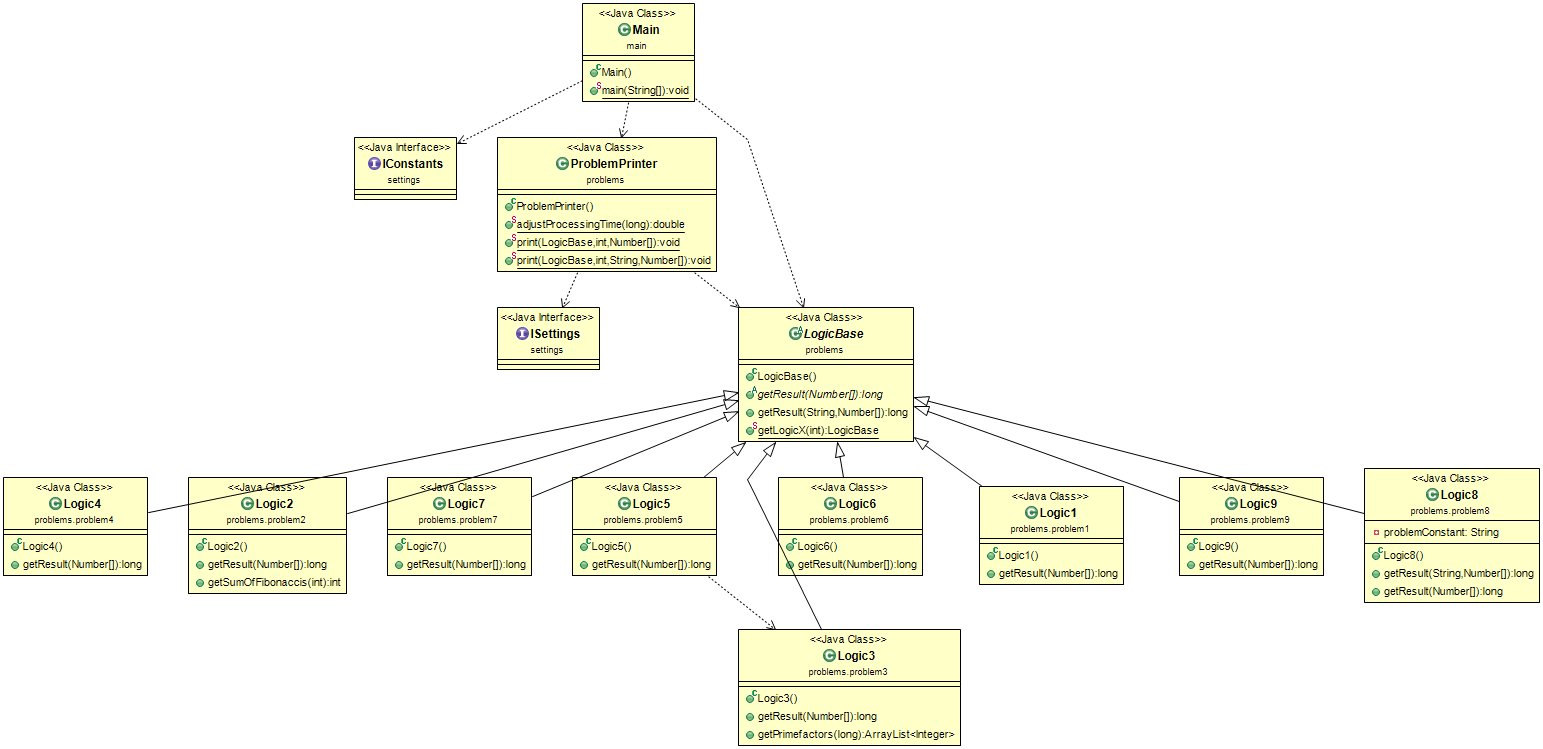
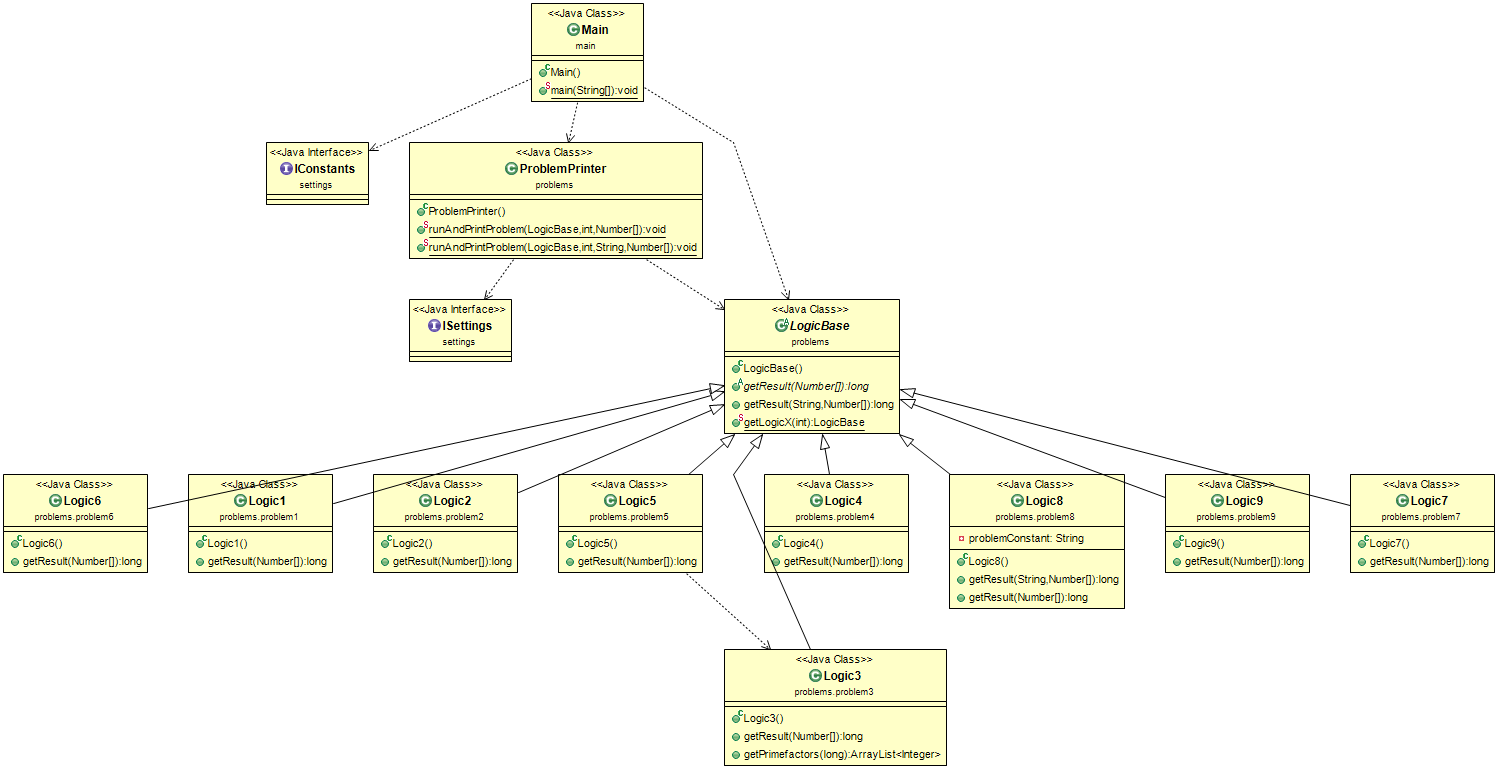
#add JavaDocs #mod refactoring

Changed region(s): [[0.0, 0.0, 1.0, 0.8291], [0.4606, 0.8291, 0.6449, 1.0]]

diff --git a/ProjectEuler/src/main/java/main/Main.java b/ProjectEuler/src/main/java/main/Main.java
@@ -9,20 +9,26 @@ import settings.IConstants;
 public class Main {
   // private static final Logger logConsole = Logger.getLogger("console");
   private static final Logger mdLogfile = Logger.getLogger("file");
-  public static final int UNUSED  = 0;
+
+  /**
+   * This is the projects entry point.
+   * 
+   * @param args
+   *          Startup arguments.
+   */
 
   public static void main(String[] args) {
 
     printMdLogfileHeader();
-    ProblemPrinter.print(LogicBase.getLogicX(1), 1, 0,IConstants.PROBLEM1_LIMIT, IConstants.PROBLEM1_MULTIPLE_OF_X, IConstants.PROBLEM1_MULTIPLE_OF_Y);
-    ProblemPrinter.print(LogicBase.getLogicX(2), 2, IConstants.PROBLEM2_LIMIT);
-    ProblemPrinter.print(LogicBase.getLogicX(3), 3, IConstants.PROBLEM3_NUMBER);
-    ProblemPrinter.print(LogicBase.getLogicX(4), 4, IConstants.PROBLEM4_LIMIT);
-    ProblemPrinter.print(LogicBase.getLogicX(5), 5, IConstants.PROBLEM5_DIVISOR_START, IConstants.PROBLEM5_DIVISOR_END);
-    ProblemPrinter.print(LogicBase.getLogicX(6), 6, IConstants.PROBLEM6_LIMIT);
-    ProblemPrinter.print(LogicBase.getLogicX(7), 7, IConstants.PROBLEM7_INDEX);
-    ProblemPrinter.print(LogicBase.getLogicX(8), 8,IConstants.PROBLEM_8_NUMBER_STRING, IConstants.PROBLEM8_INTERVALL_SIZE);
-    ProblemPrinter.print(LogicBase.getLogicX(9), 9, IConstants.PROBLEM9_SUM);
+    ProblemPrinter.runAndPrintProblem(LogicBase.getLogicX(1), 1, 0, IConstants.PROBLEM1_LIMIT, IConstants.PROBLEM1_MULTIPLE_OF_X, IConstants.PROBLEM1_MULTIPLE_OF_Y);
+    ProblemPrinter.runAndPrintProblem(LogicBase.getLogicX(2), 2, IConstants.PROBLEM2_LIMIT);
+    ProblemPrinter.runAndPrintProblem(LogicBase.getLogicX(3), 3, IConstants.PROBLEM3_NUMBER);
+    ProblemPrinter.runAndPrintProblem(LogicBase.getLogicX(4), 4, IConstants.PROBLEM4_LIMIT);
+    ProblemPrinter.runAndPrintProblem(LogicBase.getLogicX(5), 5, IConstants.PROBLEM5_DIVISOR_START, IConstants.PROBLEM5_DIVISOR_END);
+    ProblemPrinter.runAndPrintProblem(LogicBase.getLogicX(6), 6, IConstants.PROBLEM6_LIMIT);
+    ProblemPrinter.runAndPrintProblem(LogicBase.getLogicX(7), 7, IConstants.PROBLEM7_INDEX);
+    ProblemPrinter.runAndPrintProblem(LogicBase.getLogicX(8), 8, IConstants.PROBLEM_8_NUMBER_STRING, IConstants.PROBLEM8_INTERVALL_SIZE);
+    ProblemPrinter.runAndPrintProblem(LogicBase.getLogicX(9), 9, IConstants.PROBLEM9_SUM);
   }
 
   private static void printMdLogfileHeader() {

diff --git a/ProjectEuler/src/main/java/problems/ProblemPrinter.java b/ProjectEuler/src/main/java/problems/ProblemPrinter.java
@@ -13,26 +13,38 @@ public final class ProblemPrinter {
   private static ArrayList<Long> getResultAndProcessingTime(LogicBase logic, String problemConstant, Number... numbers) {
     ArrayList<Long> results = new ArrayList<Long>();
     long start = System.nanoTime();
-      results.add(logic.getResult(problemConstant, numbers)); // the problems results is in results[0]      
+    results.add(logic.getResult(problemConstant, numbers)); // the problems results is in results[0]
     long end = System.nanoTime();
     results.add(end - start);
     return results;
   }
 
   private static double adjustProcessingTime(long processingTime) {
-    Double adjustedProcessingTime = Long.valueOf(processingTime).doubleValue() / 1000000000;
+    Double adjustedProcessingTime = Long.valueOf(processingTime).doubleValue() / ISettings.NANO_SECONDS_TO_SECONDS_FACTOR;
     return adjustedProcessingTime;
   }
 
-  public static void print(LogicBase logic, int problemNumber, Number... numbers) {
-    print(logic, problemNumber, null, numbers);
+  public static void runAndPrintProblem(LogicBase logic, int problemNumber, Number... numbers) {
+    runAndPrintProblem(logic, problemNumber, null, numbers);
   }
 
-  public static void print(LogicBase logic, int problemNumber, String problemConstant, Number... numbers) {
+  /**
+   * Runs the problem, collects the result and prints it out.
+   * 
+   * @param logic
+   *          Logic object with which to solve the problem.
+   * @param problemNumber
+   *          Number of the problem.
+   * @param problemConstant
+   *          Problem constant as String, null if there is none.
+   * @param numbers
+   *          Array of Number objects.
+   */
+  public static void runAndPrintProblem(LogicBase logic, int problemNumber, String problemConstant, Number... numbers) {
     ArrayList<Long> results = getResultAndProcessingTime(logic, problemConstant, numbers);
     StringBuilder problemResultString = new StringBuilder();
     problemResultString = problemResultString.append(results.get(0).toString());
-    while (problemResultString.length() < ISettings._PROBLEM_RESULT_STRING_LENGTH) {
+    while (problemResultString.length() < ISettings.PROBLEM_RESULT_STRING_LENGTH) {
       problemResultString.append(' ');
     }
 

diff --git a/ProjectEuler/src/main/java/problems/LogicBase.java b/ProjectEuler/src/main/java/problems/LogicBase.java
@@ -12,7 +12,16 @@ public abstract class LogicBase {
   }
 
   public abstract long getResult(Number... numbers);
-  
+
+  /**
+   * Fall-back method which is called if the logic instance has no implementation
+   * 
+   * @param stringConstant
+   *          Used if the problem needs a String parameter.
+   * @param numbers
+   *          Array of Parameters which are numbers.
+   * @return The result of the problem.
+   */
   public long getResult(String stringConstant, Number... numbers) {
     long result = 0;
     if (stringConstant == null) {
@@ -23,13 +32,20 @@ public abstract class LogicBase {
     return result;
   }
 
+  /**
+   * Method to create a specific logic object determined by it's number. The number is part of the of the class name.
+   * 
+   * @param logicNumber
+   *          Represents the number of the problem and the corresponding logic.
+   * @return The instance of the corresponding logic.
+   */
   public static LogicBase getLogicX(int logicNumber) {
     String logicClassName = "problems.problem" + logicNumber + ".Logic" + logicNumber;
     logConsole.debug(logicClassName);
     LogicBase logicObject = null;
     try {
-      Class<?> logicClass =  Class.forName(logicClassName);
-      Constructor<?> logicConstructor =  logicClass.getConstructor();
+      Class<?> logicClass = Class.forName(logicClassName);
+      Constructor<?> logicConstructor = logicClass.getConstructor();
       logicObject = (LogicBase) logicConstructor.newInstance();
     } catch (Exception e) {
       e.printStackTrace();

diff --git a/ProjectEuler/src/main/java/problems/problem6/Logic6.java b/ProjectEuler/src/main/java/problems/problem6/Logic6.java
@@ -2,8 +2,6 @@ package problems.problem6;
 
 import problems.LogicBase;
 
-
-
 //The sum of the squares of the first ten natural numbers is,
 //1^2 + 2^2 + ... + 10^2 = 385
 //The square of the sum of the first ten natural numbers is,
@@ -11,33 +9,31 @@ import problems.LogicBase;
 //Hence the difference between the sum of the squares of the first ten natural numbers and the square of the sum is 3025 − 385 = 2640.
 //Find the difference between the sum of the squares of the first one hundred natural numbers and the square of the sum.
 
-
 public class Logic6 extends LogicBase {
-  
+
   @Override
   public long getResult(Number... numbers) {
-   int limit = numbers[0].intValue();
+    int limit = numbers[0].intValue();
     int sumSquares = getSumSquares(limit);
     int squareSum = getSquareSum(limit);
     int difference = squareSum - sumSquares;
     return difference;
   }
-  
-  
-  private int getSumSquares(int limit){
+
+  private int getSumSquares(int limit) {
     int sumSquares = 0;
     for (int i = 1; i <= limit; i++) {
-      sumSquares = sumSquares+ i*i;
+      sumSquares = sumSquares + i * i;
     }
     return sumSquares;
   }
-  
-  private int getSquareSum(int limit){
-   int sum = 0;
-   for (int i = 0; i <= limit; i++) {
-    sum = sum + i;
-  }
-   int squareSum = sum  * sum;
-   return squareSum;
+
+  private int getSquareSum(int limit) {
+    int sum = 0;
+    for (int i = 0; i <= limit; i++) {
+      sum = sum + i;
+    }
+    int squareSum = sum * sum;
+    return squareSum;
   }
 }

diff --git a/ProjectEuler/src/main/java/problems/problem2/Logic2.java b/ProjectEuler/src/main/java/problems/problem2/Logic2.java
@@ -4,7 +4,6 @@ import java.util.ArrayList;
 
 import problems.LogicBase;
 
-
 //Each new term in the Fibonacci sequence is generated by adding the previous two terms. By starting with 1 and 2, the first 10 terms will be:
 //1, 2, 3, 5, 8, 13, 21, 34, 55, 89, ...
 //By considering the terms in the Fibonacci sequence whose values do not exceed four million, find the sum of the even-valued terms.
@@ -16,23 +15,22 @@ public class Logic2 extends LogicBase {
     return getSumOfFibonaccis(numbers[0].intValue());
   }
 
-  public int getSumOfFibonaccis(int limit){
+  private int getSumOfFibonaccis(int limit) {
     ArrayList<Integer> fibonaccis = new ArrayList<Integer>();
     fibonaccis.add(1);
     fibonaccis.add(2);
     int index = 2;
     int sumOfEvenNumbers = 2;
 
-    while(sumOfEvenNumbers < limit){
-      fibonaccis.add(fibonaccis.get(index-1) + fibonaccis.get(index-2));      
-      if (fibonaccis.get(index)%2 ==0)
-      sumOfEvenNumbers = sumOfEvenNumbers + fibonaccis.get(index);
+    while (sumOfEvenNumbers < limit) {
+      fibonaccis.add(fibonaccis.get(index - 1) + fibonaccis.get(index - 2));
+      if (fibonaccis.get(index) % 2 == 0) {
+        sumOfEvenNumbers = sumOfEvenNumbers + fibonaccis.get(index);
+      }
       index++;
     }
-    
+
     return sumOfEvenNumbers;
   }
-  
-  
-  
+
 }

diff --git a/ProjectEuler/src/main/java/problems/problem7/Logic7.java b/ProjectEuler/src/main/java/problems/problem7/Logic7.java
@@ -9,16 +9,14 @@ import problems.LogicBase;
 
 public class Logic7 extends LogicBase {
 
-  
-
   @Override
   public long getResult(Number... numbers) {
-    ArrayList<Integer> primes =  initPrimesArray();
+    ArrayList<Integer> primes = initPrimesArray();
     int result = getSpecificPrime(primes, numbers[0].intValue());
     return result;
   }
 
-  private int getSpecificPrime(ArrayList<Integer> primes, int index) { 
+  private int getSpecificPrime(ArrayList<Integer> primes, int index) {
     int number = 1;
     while (primes.size() < index) {
       number = number + 2;
@@ -31,12 +29,12 @@ public class Logic7 extends LogicBase {
   }
 
   private ArrayList<Integer> initPrimesArray() {
-      ArrayList<Integer> primes = new ArrayList<Integer>();   // list of primes to check with whether the number is a prime
-      primes.add(2);
-      return primes;
+    ArrayList<Integer> primes = new ArrayList<Integer>();   // list of primes to check with whether the number is a prime
+    primes.add(2);
+    return primes;
   }
 
-  private boolean isPrime( ArrayList<Integer> primes, int number) {
+  private boolean isPrime(ArrayList<Integer> primes, int number) {
     boolean isPrime = true;
     for (Integer prime : primes) {
       if (number % prime == 0) {

diff --git a/ProjectEuler/src/main/java/problems/problem5/Logic5.java b/ProjectEuler/src/main/java/problems/problem5/Logic5.java
@@ -28,18 +28,18 @@ public class Logic5 extends LogicBase {
 
     int result = 1;
     ArrayList<Integer> divisors = getDivisors(start, end);
-    ArrayList<ArrayList<Integer>> primefactorsLists = getPrimefactorsLists(divisors);   
-    HashMap<Integer, Integer> uniquePrimesCounts = new HashMap<Integer, Integer>();   
+    ArrayList<ArrayList<Integer>> primefactorsLists = getPrimefactorsLists(divisors);
+    HashMap<Integer, Integer> uniquePrimesCounts = new HashMap<Integer, Integer>();
     for (ArrayList<Integer> primefactorList : primefactorsLists) {
       setUniquePrimesCounts(uniquePrimesCounts, primefactorList);
     }
-    
+
     for (Integer primeCountKey : uniquePrimesCounts.keySet()) {
       for (int i = 1; i <= uniquePrimesCounts.get(primeCountKey); i++) {
-        result = result * primeCountKey;        
+        result = result * primeCountKey;
       }
     }
-    
+
     logConsole.debug(uniquePrimesCounts.toString());
     return result;
   }
@@ -87,5 +87,5 @@ public class Logic5 extends LogicBase {
     }
     return primefactorsLists;
   }
-  
+
 }

diff --git a/ProjectEuler/src/main/java/problems/problem1/Logic1.java b/ProjectEuler/src/main/java/problems/problem1/Logic1.java
@@ -1,8 +1,9 @@
 package problems.problem1;
 
+import problems.LogicBase;
+
 import java.util.ArrayList;
 
-import problems.LogicBase;
 
 // If we list all the natural numbers below 10 that are multiples of 3 or 5, we get 3, 5, 6 and 9. The sum of these multiples is 23.
 // Find the sum of all the multiples of 3 or 5 below 1000.
@@ -24,19 +25,7 @@ public class Logic1 extends LogicBase {
     return result;
   }
 
-  /**
-   * Returns an ArrayList of Integer which are multiple of x and y
-   * 
-   * @param start
-   * @param end
-   * @param multipleOfX
-   *          x
-   * @param multipleOfY
-   *          y
-   * @return
-   */
-
-  private ArrayList<Integer> getNumbers(int start, int end, int multipleOfX, int multipleOfY) {
+  private ArrayList<Integer> getNumbers(final int start, final int end, final int multipleOfX, final int multipleOfY) {
     ArrayList<Integer> result = new ArrayList<Integer>();
     for (int number = start; number < end; number++) {
       if (isMultipleOfXAndY(multipleOfX, multipleOfY, number)) {

diff --git a/ProjectEuler/src/main/java/problems/problem4/Logic4.java b/ProjectEuler/src/main/java/problems/problem4/Logic4.java
@@ -9,7 +9,7 @@ import problems.LogicBase;
 
 public class Logic4 extends LogicBase {
 
-  private static final Logger logConsole = Logger.getLogger("console");
+  private static final Logger CONSOLE = Logger.getLogger("console");
 
   @Override
   public long getResult(Number... numbers) {
@@ -47,7 +47,7 @@ public class Logic4 extends LogicBase {
     numberStringPart2 = new StringBuilder().append(numberStringPart2).reverse().toString();
     if (numberStringPart1.equals(numberStringPart2)) {
       result = true;
-      logConsole.debug(numberString + " -> " + numberStringPart1 + " = " + numberStringPart2);
+      CONSOLE.debug(numberString + " -> " + numberStringPart1 + " = " + numberStringPart2);
     }
     return result;
   }

diff --git a/ProjectEuler/src/main/java/problems/problem9/Logic9.java b/ProjectEuler/src/main/java/problems/problem9/Logic9.java
@@ -13,7 +13,7 @@ import problems.LogicBase;
 public class Logic9 extends LogicBase {
 
   private static final Logger logConsole = Logger.getLogger("console");
-  
+
   @Override
   public long getResult(Number... numbers) {
     int result = 0;
@@ -25,7 +25,7 @@ public class Logic9 extends LogicBase {
           steps++;
           if (getTripletSum(a, b, c) == sum && isPythagoreanTriplet(a, b, c)) {
             result = getTripletProduct(a, b, c);
-            logConsole.debug(a + " * " + b + " * " +c + " = " + result  + " steps: " + steps);
+            logConsole.debug(a + " * " + b + " * " + c + " = " + result + " steps: " + steps);
             break;
           }
         }

diff --git a/ProjectEuler/src/main/java/problems/problem3/Logic3.java b/ProjectEuler/src/main/java/problems/problem3/Logic3.java
@@ -23,6 +23,13 @@ public class Logic3 extends LogicBase {
     return result;
   }
 
+  /**
+   * Calculates the prime-factors of a given number.
+   * 
+   * @param number
+   *          given number
+   * @return List of the the prime-factors
+   */
   public ArrayList<Integer> getPrimefactors(long number) {
     ArrayList<Integer> primefactors = new ArrayList<Integer>();
     for (int i = 2; i <= number; i++) {

diff --git a/ProjectEuler/src/main/java/settings/ISettings.java b/ProjectEuler/src/main/java/settings/ISettings.java
@@ -2,6 +2,7 @@ package settings;
 
 public interface ISettings {
 
-  public static final int _PROBLEM_RESULT_STRING_LENGTH = 10;
+  public static final int PROBLEM_RESULT_STRING_LENGTH = 10;
+  public static final double NANO_SECONDS_TO_SECONDS_FACTOR = 1000000000;
 
 }
